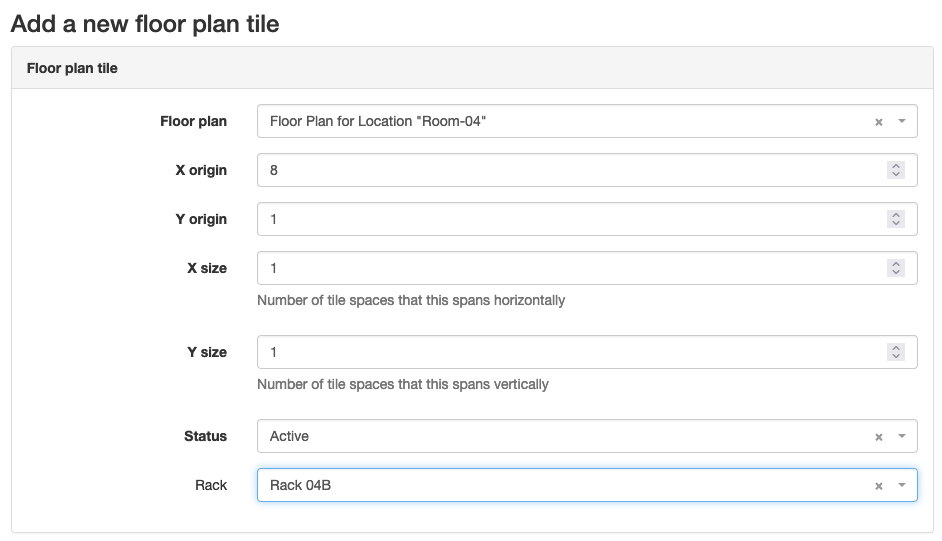
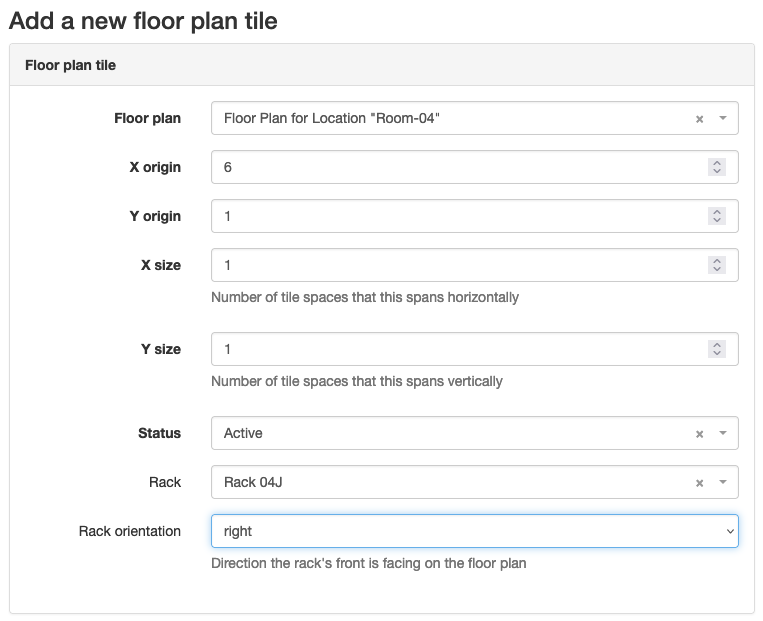
Add FloorPlanTile.rack_orientation field and SVG rendering. Closes #9

diff --git a/nautobot_floor_plan/templates/nautobot_floor_plan/floorplantile_retrieve.html b/nautobot_floor_plan/templates/nautobot_floor_plan/floorplantile_retrieve.html
@@ -41,6 +41,10 @@
                 <td>Rack</td>
                 <td>{{ object.rack | hyperlinked_object }}</td>
             </tr>
+            <tr>
+                <td>Rack Orientation</td>
+                <td>{{ object.get_rack_orientation_display }}</td>
+            </tr>
         </table>
     </div>
 {% endblock content_left_page %}

diff --git a/nautobot_floor_plan/static/nautobot_floor_plan/css/svg.css b/nautobot_floor_plan/static/nautobot_floor_plan/css/svg.css
@@ -31,6 +31,10 @@ text {
 .label-text {
     fill: white;
 }
+.label-text-primary {
+    fill: white;
+    font-weight: bold;
+}
 
 .add-tile-button {
     fill: #5cb85c;

diff --git a/nautobot_floor_plan/svg.py b/nautobot_floor_plan/svg.py
@@ -9,6 +9,8 @@ from django.utils.http import urlencode
 
 from nautobot.utilities.templatetags.helpers import fgcolor
 
+from nautobot_floor_plan.choices import RackOrientationChoices
+
 
 logger = logging.getLogger(__name__)
 
@@ -22,6 +24,7 @@ class FloorPlanSVG:
     TEXT_LINE_HEIGHT = 16
     GRID_OFFSET = 30
     RACK_INSETS = (3 * TILE_INSET, 3 * TILE_INSET + TEXT_LINE_HEIGHT)
+    RACK_FRONT_DEPTH = 15
 
     def __init__(self, *, floor_plan, user, base_url):
         """
@@ -267,7 +270,9 @@ class FloorPlanSVG:
         rack_url = reverse("dcim:rack", kwargs={"pk": tile.rack.pk})
         rack_url = f"{self.base_url}{rack_url}"
 
+        # Add link to the detail view of the rack
         link = drawing.add(drawing.a(href=rack_url, target="_top"))
+        # Draw rectangle within the tile, representing the rack
         link.add(
             drawing.rect(
                 (origin[0] + self.RACK_INSETS[0], origin[1] + self.RACK_INSETS[1]),
@@ -280,24 +285,98 @@ class FloorPlanSVG:
                 style=f"fill: #{tile.rack.status.color}; stroke: {fgcolor(tile.status.color)}",
             )
         )
+        # Indicate the front of the rack, if defined
+        if tile.rack_orientation == RackOrientationChoices.UP:
+            link.add(
+                drawing.rect(
+                    (origin[0] + self.RACK_INSETS[0], origin[1] + self.RACK_INSETS[1]),
+                    (
+                        tile.x_size * self.GRID_SIZE_X - 2 * self.RACK_INSETS[0],
+                        self.RACK_FRONT_DEPTH,
+                    ),
+                    rx=self.CORNER_RADIUS,
+                    class_="rack",
+                    style=f"fill: {fgcolor(tile.status.color)}; stroke: {fgcolor(tile.status.color)}",
+                )
+            )
+        elif tile.rack_orientation == RackOrientationChoices.DOWN:
+            link.add(
+                drawing.rect(
+                    (
+                        origin[0] + self.RACK_INSETS[0],
+                        origin[1] + tile.y_size * self.GRID_SIZE_Y - 3 * self.TILE_INSET - self.RACK_FRONT_DEPTH,
+                    ),
+                    (
+                        tile.x_size * self.GRID_SIZE_X - 2 * self.RACK_INSETS[0],
+                        self.RACK_FRONT_DEPTH,
+                    ),
+                    rx=self.CORNER_RADIUS,
+                    class_="rack",
+                    style=f"fill: {fgcolor(tile.status.color)}; stroke: {fgcolor(tile.status.color)}",
+                )
+            )
+        elif tile.rack_orientation == RackOrientationChoices.LEFT:
+            link.add(
+                drawing.rect(
+                    (origin[0] + self.RACK_INSETS[0], origin[1] + self.RACK_INSETS[1]),
+                    (
+                        self.RACK_FRONT_DEPTH,
+                        tile.y_size * self.GRID_SIZE_Y - self.RACK_INSETS[1] - 3 * self.TILE_INSET,
+                    ),
+                    rx=self.CORNER_RADIUS,
+                    class_="rack",
+                    style=f"fill: {fgcolor(tile.status.color)}; stroke: {fgcolor(tile.status.color)}",
+                )
+            )
+        elif tile.rack_orientation == RackOrientationChoices.RIGHT:
+            link.add(
+                drawing.rect(
+                    (
+                        origin[0] + tile.x_size * self.GRID_SIZE_X - self.RACK_INSETS[0] - self.RACK_FRONT_DEPTH,
+                        origin[1] + self.RACK_INSETS[1],
+                    ),
+                    (
+                        self.RACK_FRONT_DEPTH,
+                        tile.y_size * self.GRID_SIZE_Y - self.RACK_INSETS[1] - 3 * self.TILE_INSET,
+                    ),
+                    rx=self.CORNER_RADIUS,
+                    class_="rack",
+                    style=f"fill: {fgcolor(tile.status.color)}; stroke: {fgcolor(tile.status.color)}",
+                )
+            )
+
+        # Add the rack name as text
         link.add(
             drawing.text(
                 tile.rack.name,
                 insert=(
                     origin[0] + (tile.x_size * self.GRID_SIZE_X) / 2,
-                    origin[1] + (tile.y_size * self.GRID_SIZE_Y) / 2 - self.TEXT_LINE_HEIGHT / 2,
+                    origin[1] + (tile.y_size * self.GRID_SIZE_Y) / 2 - self.TEXT_LINE_HEIGHT,
+                ),
+                class_="label-text-primary",
+                style=f"fill: {fgcolor(tile.rack.status.color)}",
+            )
+        )
+        # Add the rack status as text
+        link.add(
+            drawing.text(
+                tile.rack.status.name,
+                insert=(
+                    origin[0] + (tile.x_size * self.GRID_SIZE_X) / 2,
+                    origin[1] + (tile.y_size * self.GRID_SIZE_Y) / 2,
                 ),
                 class_="label-text",
                 style=f"fill: {fgcolor(tile.rack.status.color)}",
             )
         )
+        # Add the rack utilization as text
         ru_used, ru_total = tile.rack.get_utilization()
         link.add(
             drawing.text(
                 f"{ru_used} / {ru_total} RU",
                 insert=(
                     origin[0] + (tile.x_size * self.GRID_SIZE_X) / 2,
-                    origin[1] + (tile.y_size * self.GRID_SIZE_Y) / 2 + self.TEXT_LINE_HEIGHT / 2,
+                    origin[1] + (tile.y_size * self.GRID_SIZE_Y) / 2 + self.TEXT_LINE_HEIGHT,
                 ),
                 class_="label-text",
                 style=f"fill: {fgcolor(tile.rack.status.color)}",

diff --git a/nautobot_floor_plan/models.py b/nautobot_floor_plan/models.py
@@ -11,6 +11,7 @@ from nautobot.core.models.generics import PrimaryModel
 from nautobot.extras.models import StatusModel
 from nautobot.extras.utils import extras_features
 
+from nautobot_floor_plan.choices import RackOrientationChoices
 from nautobot_floor_plan.svg import FloorPlanSVG
 
 
@@ -123,6 +124,12 @@ class FloorPlanTile(PrimaryModel, StatusModel):
     rack = models.OneToOneField(
         to="dcim.Rack", on_delete=models.CASCADE, blank=True, null=True, related_name="floor_plan_tile"
     )
+    rack_orientation = models.CharField(
+        max_length=10,
+        choices=RackOrientationChoices,
+        blank=True,
+        help_text="Direction the rack's front is facing on the floor plan",
+    )
     # status field is automatically provided by StatusModel
 
     class Meta:
@@ -139,6 +146,7 @@ class FloorPlanTile(PrimaryModel, StatusModel):
         "y_size",
         "status",
         "rack",
+        "rack_orientation",
     ]
 
     @property
@@ -204,4 +212,5 @@ class FloorPlanTile(PrimaryModel, StatusModel):
             self.y_size,
             self.status.name,
             self.rack.name if self.rack is not None else None,
+            self.rack_orientation,
         )

diff --git a/nautobot_floor_plan/tests/test_api_views.py b/nautobot_floor_plan/tests/test_api_views.py
@@ -6,7 +6,7 @@ from nautobot.dcim.models import Rack
 from nautobot.extras.models import Tag
 from nautobot.utilities.testing import APIViewTestCases
 
-from nautobot_floor_plan import models
+from nautobot_floor_plan import choices, models
 from nautobot_floor_plan.tests import fixtures
 
 
@@ -45,7 +45,8 @@ class FloorPlanTileAPIViewTest(APIViewTestCases.APIViewTestCase):
 
     model = models.FloorPlanTile
     brief_fields = ["display", "id", "url", "x_origin", "x_size", "y_origin", "y_size"]
-    # TODO choices_fields = ["status"]
+    choices_fields = ["rack_orientation"]
+    # TODO choices_fields = ["rack_orientation", "status"]
     validation_excluded_fields = ["status"]
 
     @classmethod
@@ -68,6 +69,7 @@ class FloorPlanTileAPIViewTest(APIViewTestCases.APIViewTestCase):
                 "y_origin": 1,
                 "status": data["status"].slug,
                 "rack": cls.rack_3_1_1.pk,
+                "rack_orientation": choices.RackOrientationChoices.RIGHT,
             },
             {
                 "floor_plan": floor_plans[2].pk,

diff --git a/nautobot_floor_plan/migrations/0001_initial.py b/nautobot_floor_plan/migrations/0001_initial.py
@@ -1,4 +1,4 @@
-# Generated by Django 3.2.16 on 2023-03-02 16:40
+# Generated by Django 3.2.16 on 2023-03-02 21:23
 
 import django.core.serializers.json
 import django.core.validators
@@ -101,6 +101,7 @@ class Migration(migrations.Migration):
                         default=1, validators=[django.core.validators.MinValueValidator(1)]
                     ),
                 ),
+                ("rack_orientation", models.CharField(blank=True, max_length=10)),
                 (
                     "floor_plan",
                     models.ForeignKey(

diff --git a/nautobot_floor_plan/choices.py b/nautobot_floor_plan/choices.py
@@ -1,0 +1,19 @@
+"""ChoiceSet definitions for nautobot_floor_plan."""
+
+from nautobot.utilities.choices import ChoiceSet
+
+
+class RackOrientationChoices(ChoiceSet):
+    """Choices for the orientation of a Rack relative to its associated FloorPlan."""
+
+    UP = "up"
+    DOWN = "down"
+    LEFT = "left"
+    RIGHT = "right"
+
+    CHOICES = (
+        (UP, "up"),
+        (DOWN, "down"),
+        (LEFT, "left"),
+        (RIGHT, "right"),
+    )

diff --git a/nautobot_floor_plan/forms.py b/nautobot_floor_plan/forms.py
@@ -97,5 +97,6 @@ class FloorPlanTileForm(NautobotModelForm):
             "y_size",
             "status",
             "rack",
+            "rack_orientation",
             "tags",
         ]

diff --git a/docs/user/app_getting_started.md b/docs/user/app_getting_started.md
@@ -30,7 +30,9 @@ After clicking "Create", you will be presented with a new floor plan render:
 
 (This view will be accessible again in the future by navigating to the Location's "detail" view again and clicking the "Floor Plan" tab.)
 
-You can click the "+" icon in the corner of any rectangle in the grid to define information about this Tile in the Floor Plan. (If you've defined a large floor plan, or have a small display, you may find it useful to use your mouse wheel to zoom in first. You can also click and drag when zoomed in to pan around the grid.) This will bring you to a simple create/edit form for describing the Tile. You can assign a Status to each tile, and optionally assign a Rack as well. You can also specify the size of a Tile if you want it to cover multiple "spaces" in the Floor Plan - this can be useful to document larger-than-usual Racks, or to mark entire sections of the Floor Plan as "Reserved" or "Unavailable".
+You can click the "+" icon in the corner of any rectangle in the grid to define information about this Tile in the Floor Plan. (If you've defined a large floor plan, or have a small display, you may find it useful to use your mouse wheel to zoom in first. You can also click and drag when zoomed in to pan around the grid.) This will bring you to a simple create/edit form for describing the Tile.
+
+You can assign a Status to each tile, and optionally assign a Rack as well as specifying the orientation of the Rack relative to the Floor Plan. You can also specify the size of a Tile if you want it to cover multiple "spaces" in the Floor Plan - this can be useful to document larger-than-usual Racks, or to mark entire sections of the Floor Plan as "Reserved" or "Unavailable".
 
 ![Add Tile form](../images/add-tile-form.png)
 
